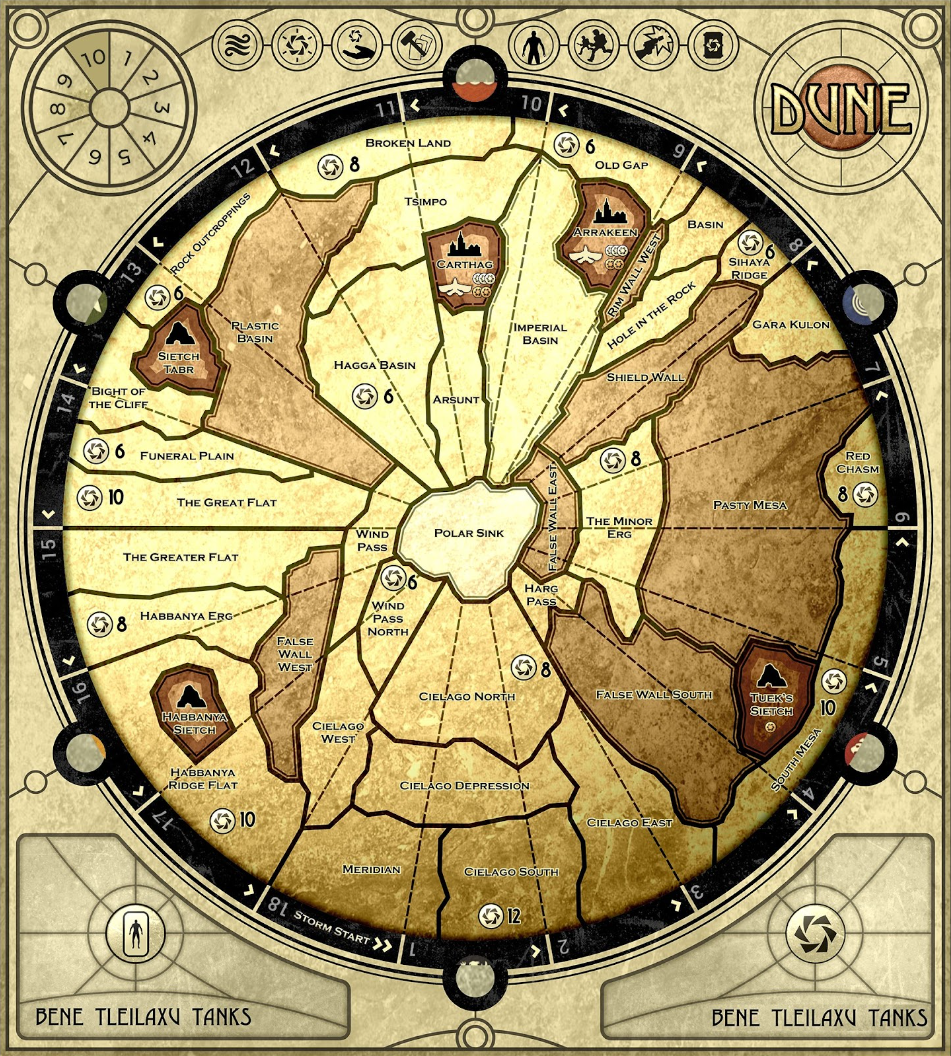
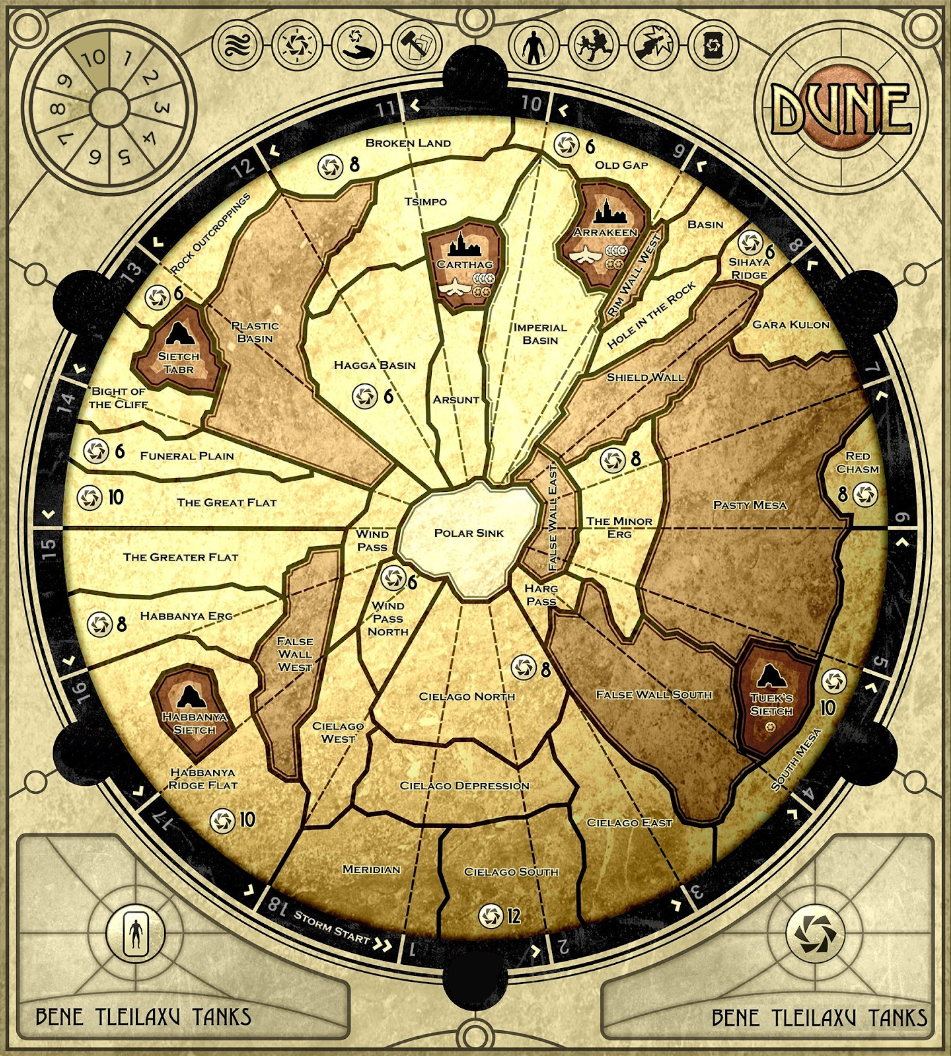
More consistent sigil alignment

diff --git a/src/main/java/model/Initializers.java b/src/main/java/model/Initializers.java
@@ -378,37 +378,37 @@ public class Initializers {
     public static Point getDrawCoordinates(String location) {
         switch (location) {
             case "sigil 1" -> {
-                return new Point(475, 978);
+                return new Point(477, 980);
             }
             case "ally 1" -> {
                 return new Point(475, 1040);
             }
             case "sigil 2" -> {
-                return new Point(865, 753);
+                return new Point(866, 756);
             }
             case "ally 2" -> {
                 return new Point(915, 783);
             }
             case "sigil 3" -> {
-                return new Point(865, 301);
+                return new Point(866, 304);
             }
             case "ally 3" -> {
                 return new Point(915, 271);
             }
             case "sigil 4" -> {
-                return new Point(475, 80);
+                return new Point(477, 78);
             }
             case "ally 4" -> {
                 return new Point(475, 20);
             }
             case "sigil 5" -> {
-                return new Point(85, 301);
+                return new Point(85, 304);
             }
             case "ally 5" -> {
                 return new Point(35, 271);
             }
             case "sigil 6" -> {
-                return new Point(85, 753);
+                return new Point(85, 756);
             }
             case "ally 6" -> {
                 return new Point(35, 783);
